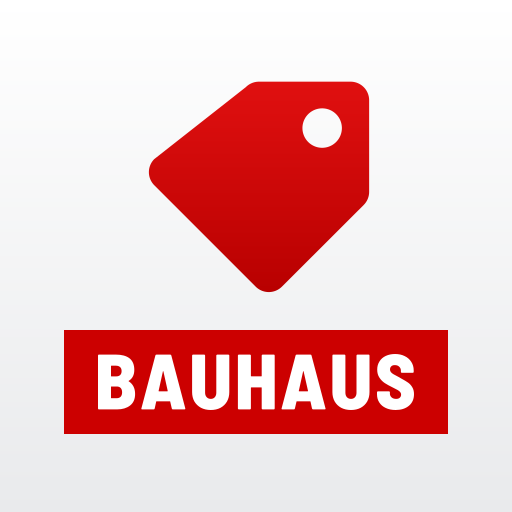
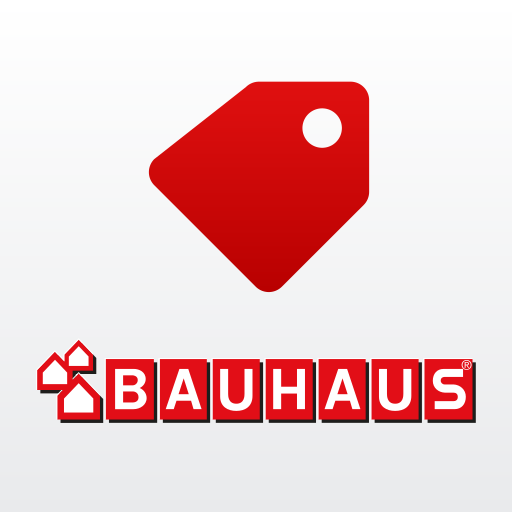
Ikony s originálním logem Bauhausu (světlá, tmavá, tónovaná, web)
Claude-Session: https://claude.ai/code/session_01WW6bJnZkX4eB37dA4t2JQ7

Changed region(s): [[0.0625, 0.625, 0.9375, 0.875]]

diff --git a/tools/make_icons.py b/tools/make_icons.py
@@ -55,7 +55,27 @@ def word_path(text: str, box_x: float, box_y: float, box_w: float, box_h: float,
 TAG = ("M243 96h158a32 32 0 0 1 32 32v158a32 32 0 0 1-9.4 22.6L282.6 449.4a32 32 0 0 1-45.2 0"
        "L62.6 274.6a32 32 0 0 1 0-45.2L220.4 105.4A32 32 0 0 1 243 96Z")
 HOLE = "M386 176a34 34 0 1 0-68 0a34 34 0 1 0 68 0Z"
-PLATE = (64, 330, 384, 104)
+LOGO_BOX = (36, 338, 440)  # x, y, šířka originálního loga v ikoně
+
+
+def bauhaus_logo(tinted: bool = False) -> str:
+    """Originální logo z web/bauhaus-logo.svg jako vnořené SVG umístěné do ikony.
+
+    tinted: červená → bílá, bílá → černá (pak se z ní stane průhlednost), stín pryč.
+    """
+    import re
+    src = (ROOT / "web/bauhaus-logo.svg").read_text()
+    vb = re.search(r'viewBox="([^"]+)"', src).group(1)
+    _, _, vw, vh = map(float, vb.split())
+    inner = src[src.index(">", src.index("<svg")) + 1: src.rindex("</svg>")]
+    if tinted:
+        inner = (inner.replace("rgb(100%, 100%, 100%)", "#000000")
+                      .replace("rgb(88.627625%, 5.490112%, 9.01947%)", "#FFFFFF")
+                      .replace('fill="rgb(11.764526%, 11.764526%, 10.980225%)" fill-opacity="1"',
+                               'fill="#000000" fill-opacity="0"'))
+    x, y, w = LOGO_BOX
+    h = w * vh / vw
+    return f'<svg x="{x}" y="{y}" width="{w}" height="{h:.1f}" viewBox="{vb}">{inner}</svg>'
 
 
 def icon_svg(variant: str = "light") -> str:
@@ -66,13 +86,10 @@ def icon_svg(variant: str = "light") -> str:
     tinted – jen bílé tvary na průhledném podkladu; iOS je obarví zvolenou barvou.
              Otvor v cenovce a písmena jsou vyříznuté, aby byly vidět i při tónování.
     """
-    x, y, w, h = PLATE
-    word = word_path("BAUHAUS", x + 26, y + 24, w - 52, h - 48, tracking=0.03)
-    plate_path = f"M{x} {y}h{w}v{h}h-{w}Z"
     if variant == "tinted":
         return f"""<svg xmlns="http://www.w3.org/2000/svg" viewBox="0 0 512 512">
   <g transform="translate(118 26) scale(0.58)"><path fill="#FFFFFF" fill-rule="evenodd" d="{TAG} {HOLE}"/></g>
-  <path fill="#FFFFFF" fill-rule="evenodd" d="{plate_path} {word}"/>
+  {bauhaus_logo(tinted=True)}
 </svg>
 """
     bg = {"light": '<rect width="512" height="512" fill="url(#bgl)"/>', "dark": ""}[variant]
@@ -89,8 +106,7 @@ def icon_svg(variant: str = "light") -> str:
   </defs>
   {bg}
   <g transform="translate(118 26) scale(0.58)"><path fill="url(#red)" fill-rule="evenodd" d="{TAG} {HOLE}"/></g>
-  <rect x="{x}" y="{y}" width="{w}" height="{h}" fill="{RED}"/>
-  <path fill="#FFFFFF" d="{word}"/>
+  {bauhaus_logo()}
 </svg>
 """
 
@@ -109,7 +125,11 @@ def main() -> None:
     # iOS: výchozí ikona bez průhlednosti, tmavá a tónovaná s průhledným podkladem
     png(light, 1024).convert("RGB").save(icons / "icon-1024.png", optimize=True)
     png(icon_svg("dark"), 1024).convert("RGBA").save(icons / "icon-1024-dark.png", optimize=True)
-    png(icon_svg("tinted"), 1024).convert("LA").save(icons / "icon-1024-tinted.png", optimize=True)
+    # tónovaná: černá místa (písmena, okna domečků) se změní v průhlednost
+    tinted = png(icon_svg("tinted"), 1024).convert("RGBA")
+    lum, alpha = tinted.convert("L"), tinted.getchannel("A")
+    alpha = Image.composite(lum, Image.new("L", lum.size, 0), alpha)
+    Image.merge("LA", (Image.new("L", lum.size, 255), alpha)).save(icons / "icon-1024-tinted.png", optimize=True)
     (icons / "Contents.json").write_text("""{ "images" : [
   { "filename" : "icon-1024.png", "idiom" : "universal", "platform" : "ios", "size" : "1024x1024" },
   { "appearances" : [ { "appearance" : "luminosity", "value" : "dark" } ],

diff --git a/CHANGELOG.md b/CHANGELOG.md
@@ -11,6 +11,7 @@ Verze aplikace je v souboru `VERSION` a zvyšuje se s každou změnou.
   místo textového titulku; na iOS 26 bez skleněného podkladu. Na záložce Více zůstává titulek.
 - Originální logo Bauhausu (domečky + BAUHAUS, vektor z bauhaus.cz) v liště, úvodní animaci,
   hlavičkách a na webu místo dřívější napodobeniny. V iOS jako vektorové PDF v Assets („BauhausLogo“).
+- Ikona aplikace (světlá, tmavá, tónovaná) i webové ikony s originálním logem Bauhausu.
 - Čtečka čárových kódů v Katalogu je vpravo v liště (vlevo je logo).
 
 ## 0.5.1
